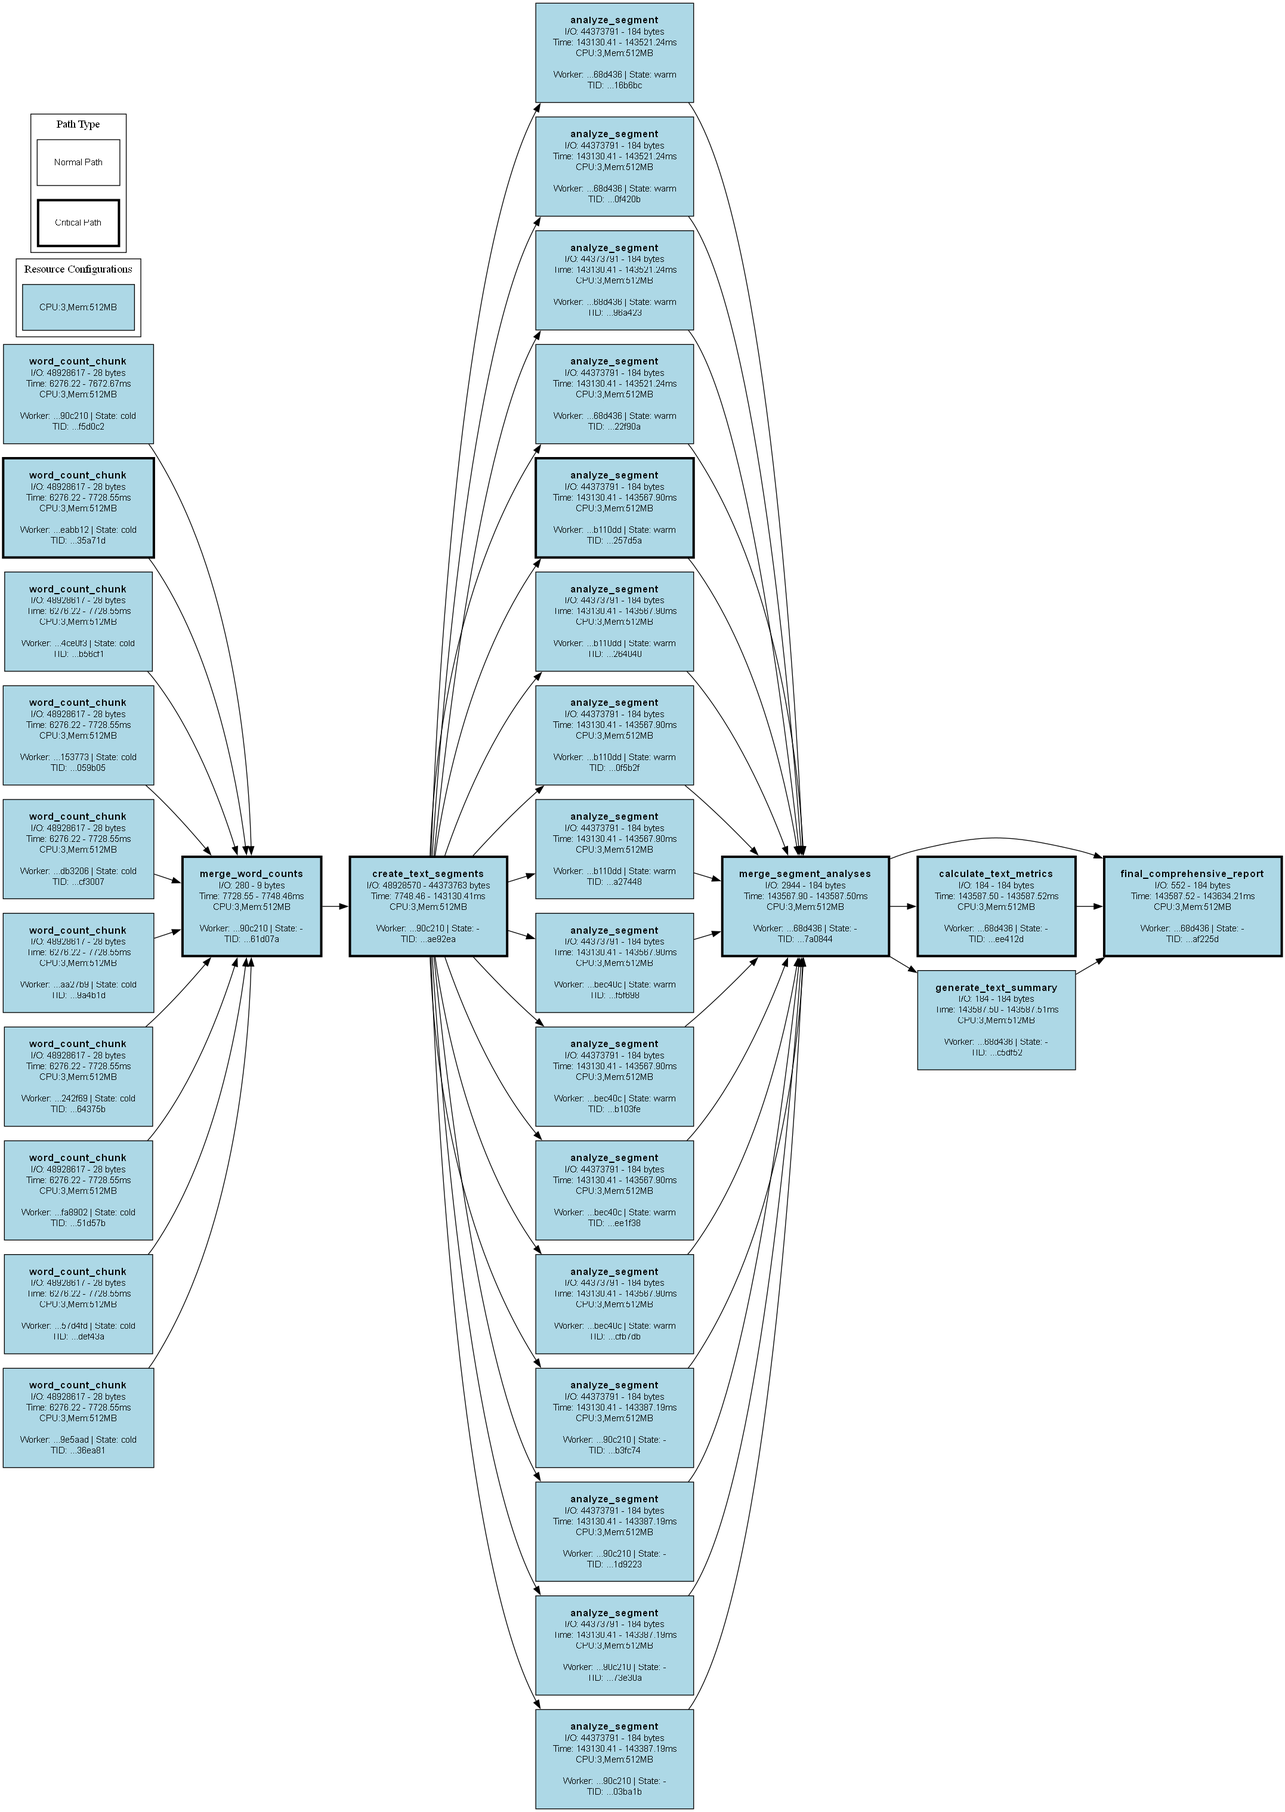
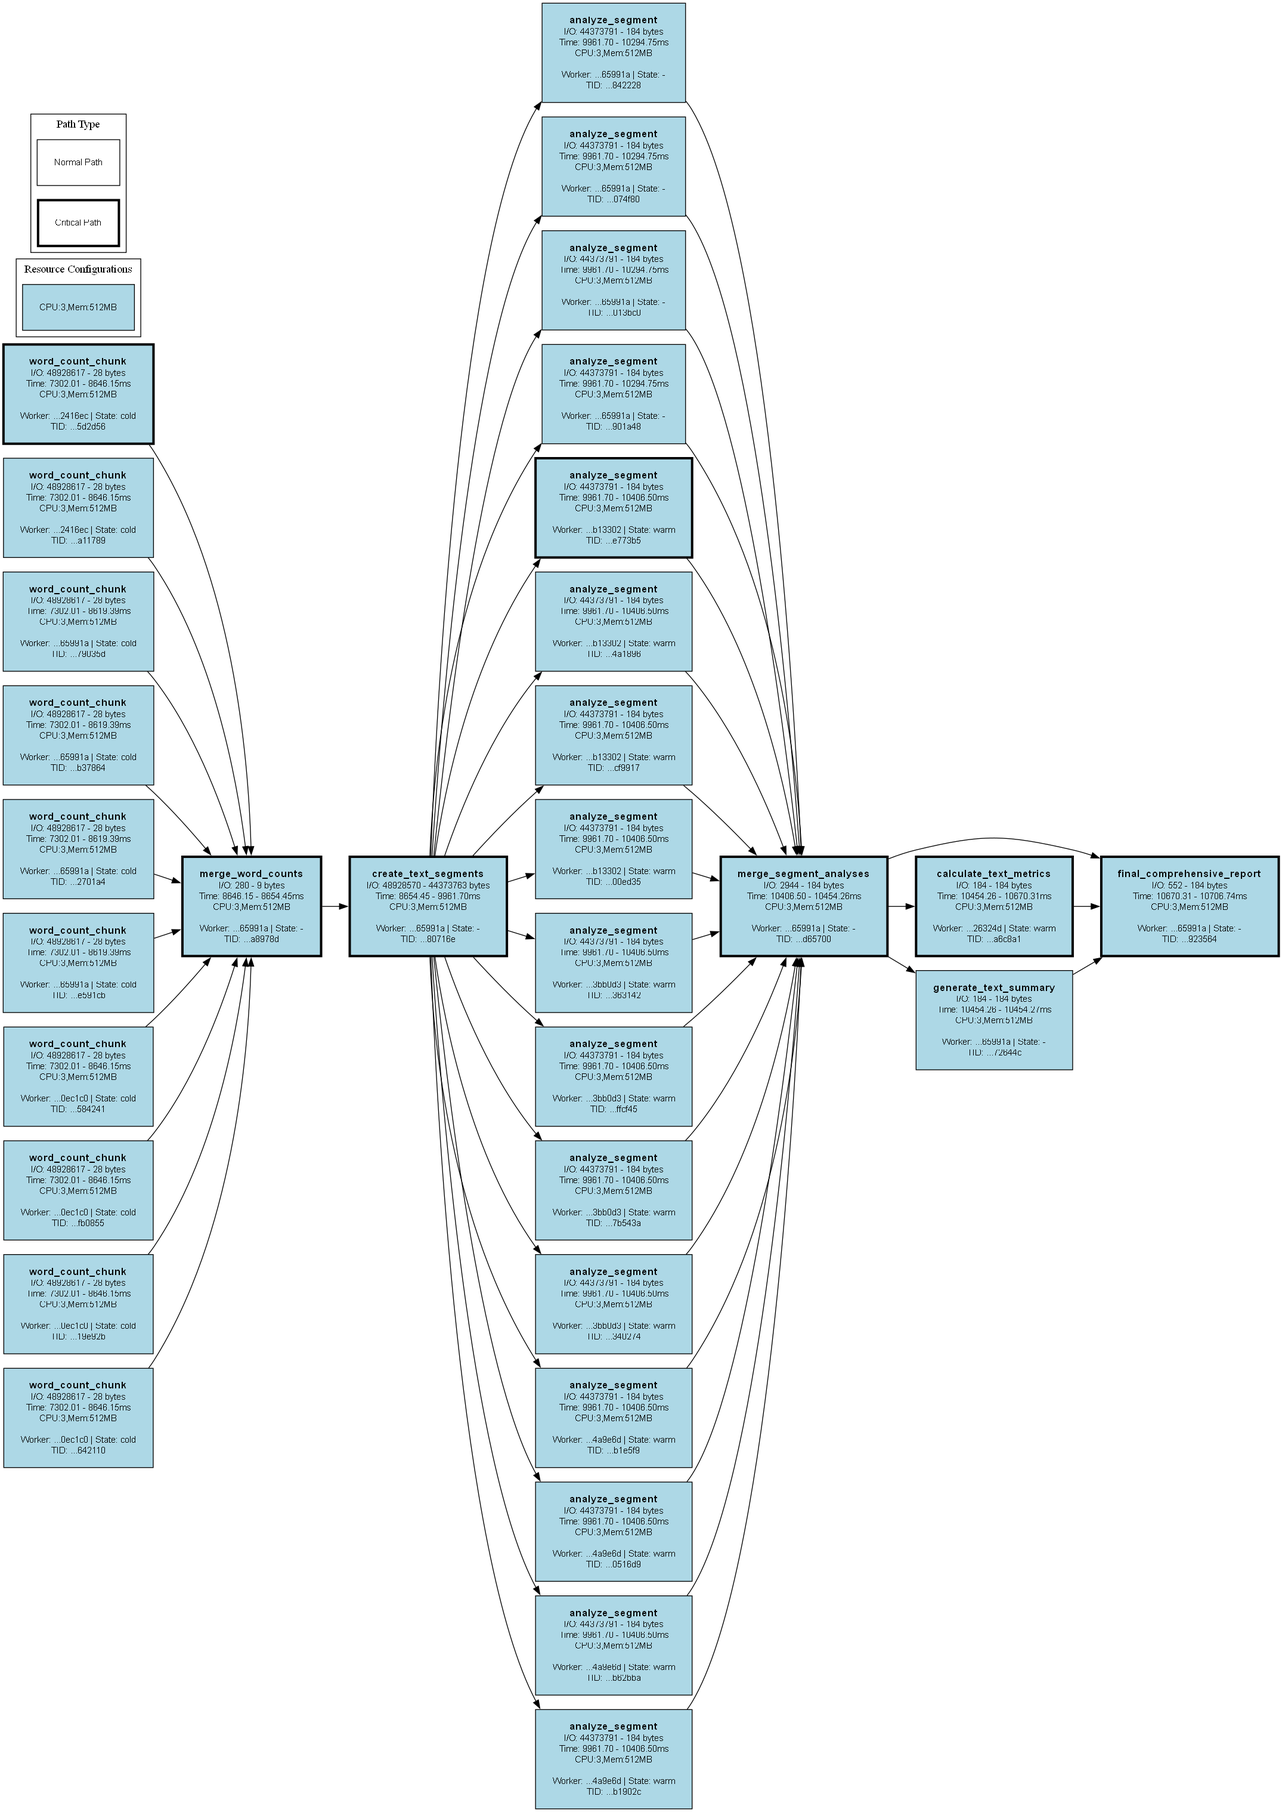
finished improving worker_id assignment algorithm

diff --git a/src/planning/abstract_dag_planner.py b/src/planning/abstract_dag_planner.py
@@ -7,7 +7,7 @@ from collections import defaultdict
 from typing import Type
 import uuid
 import statistics
-from collections import deque
+from typing import Callable
 
 from src import dag_task_node
 from src.dag_task_node import DAGTaskNode
@@ -106,144 +106,150 @@ class AbstractDAGPlanner(WorkerExecutionLogic):
         def __post_init__(self):
             self.total_time_waiting_for_worker_startup_ms = sum(map(lambda node_info: node_info.tp_worker_startup_time_ms, self.nodes_info.values()))
 
-    # def _basic_worker_id_assignment(self, dag, resource_configuration: TaskWorkerResourceConfiguration, topo_sorted_nodes: list[DAGTaskNode]):
-    #     """
-    #     Assigns same resources {resource_configuration} to all nodes and assigns worker ids using a simple algorithm that tries to cluster up to {MAX_FAN_OUT_SIZE_W_SAME_WORKER} nodes on the same worker on fan-outs
-    #     """
-
-    #     for node in topo_sorted_nodes:
-    #         resource_config = resource_configuration.clone()
-    #         node.worker_config = resource_config
-    #         if len(node.upstream_nodes) == 0:
-    #             resource_config.worker_id = uuid.uuid4().hex
-    #         else:
-    #             # Count worker usage among downstream nodes of upstream nodes
-    #             same_level_worker_usage = {}
-    #             for upstream_node in node.upstream_nodes:
-    #                 worker_id = upstream_node.worker_config.worker_id
-    #                 if not worker_id: continue
-    #                 same_level_worker_usage[worker_id] = 0
-
-    #             for upstream_node in node.upstream_nodes:
-    #                 # Get all downstream nodes of this upstream node
-    #                 for downstream_node in upstream_node.downstream_nodes:
-    #                     if downstream_node.id.get_full_id() == node.id.get_full_id(): continue
-    #                     downstream_worker_id = downstream_node.worker_config.worker_id
-    #                     if not downstream_worker_id: continue
-    #                     same_level_worker_usage[downstream_worker_id] = same_level_worker_usage.get(downstream_worker_id, 0) + 1
-
-    #             # Get the most used worker ID that doesn't exceed MAX_FAN_OUT_SIZE_W_SAME_WORKER
-    #             best_worker_id = None
-    #             best_usage = -1
-    #             for worker_id, usage in same_level_worker_usage.items():
-    #                 if usage > best_usage and usage < AbstractDAGPlanner.MAX_FAN_OUT_SIZE_W_SAME_WORKER:
-    #                     best_worker_id = worker_id
-    #                     best_usage = usage
-                
-    #             # If no suitable worker found, create a new one
-    #             resource_config.worker_id = best_worker_id if best_worker_id else uuid.uuid4().hex
-
-    def _basic_worker_id_assignment(self, dag, predictions_provider: PredictionsProvider, resource_configuration: TaskWorkerResourceConfiguration, topo_sorted_nodes: list[DAGTaskNode]):
+    def _basic_worker_id_assignment(
+        self,
+        predictions_provider: PredictionsProvider,
+        resource_configuration: TaskWorkerResourceConfiguration,
+        topo_sorted_nodes: list[DAGTaskNode]
+    ):
         """
         Assign worker IDs using a BFS traversal with prediction-aware heuristics:
+        - Root nodes: cluster short, big-output tasks together, isolate long tasks
         - 1→1 : reuse upstream worker
         - 1→N : cluster short, big-output tasks on origin worker, isolate long tasks
         - N→1 : assign to worker of upstreams with largest total output
         """
-        from src.dag.dag import GenericDAG
-        _dag: GenericDAG = dag
-
-        MAX_CLUSTER = AbstractDAGPlanner.MAX_FAN_OUT_SIZE_W_SAME_WORKER
 
         nodes_info = self._calculate_workflow_timings(topo_sorted_nodes, predictions_provider, self.config.sla)
 
-        for node in topo_sorted_nodes:
-            # --- Determine worker assignment ---
-            resource_config = resource_configuration.clone()
+        assigned_nodes = set()
 
-            #! TODO: change this to be similar to fan-out handling
-            if len(node.upstream_nodes) == 0:
-                # Root node → always new worker
+        # -----------------------------------------------------------
+        # --- Helper for fan-out assignment with grouping logic
+        # -----------------------------------------------------------
+        def _assign_fanout_group(
+            upstream_worker_id: str | None,
+            candidates: list[DAGTaskNode]
+        ):
+            """
+            Assign worker IDs to a fan-out group of candidates according to:
+            - Short tasks (<= median exec time) grouped first (big output first).
+            - Remaining shorts + longs grouped together: 1 long + (cluster_size-1) shorts per group.
+            - Remaining shorts grouped in cluster_size groups.
+            - Remaining longs grouped in (cluster_size//2) groups.
+            """
+            if not candidates: 
+                return
+
+            exec_times: dict[str, float] = {}
+            outputs: dict[str, int] = {}
+
+            # predict exec/output
+            for c in candidates:
+                input_size = nodes_info[c.id.get_full_id()].deserialized_input_size
+                exec_times[c.id.get_full_id()] = predictions_provider.predict_execution_time(
+                    c.func_name, input_size, resource_configuration, self.config.sla
+                )
+                outputs[c.id.get_full_id()] = predictions_provider.predict_output_size(
+                    c.func_name, input_size, self.config.sla, deserialized=True
+                )
+
+            median_exec = statistics.median(exec_times.values())
+            long_tasks = [c for c in candidates if exec_times[c.id.get_full_id()] > median_exec]
+            short_tasks = [c for c in candidates if exec_times[c.id.get_full_id()] <= median_exec]
+
+            # Sort short tasks by descending output
+            short_tasks.sort(key=lambda c: outputs[c.id.get_full_id()], reverse=True)
+
+            # 1) Cluster short tasks first (big output first) on upstream worker if provided
+            if upstream_worker_id and short_tasks:
+                n_cluster = min(AbstractDAGPlanner.MAX_FAN_OUT_SIZE_W_SAME_WORKER, len(short_tasks))
+                for c in short_tasks[:n_cluster]:
+                    rc = resource_configuration.clone()
+                    rc.worker_id = upstream_worker_id
+                    c.worker_config = rc
+                    assigned_nodes.add(c.id.get_full_id())
+                short_tasks = short_tasks[n_cluster:]
+
+            # 2) Pair remaining longs with remaining shorts (1 long per group)
+            while long_tasks and short_tasks:
+                long_task = long_tasks.pop(0)
+                n_cluster = min(AbstractDAGPlanner.MAX_FAN_OUT_SIZE_W_SAME_WORKER - 1, len(short_tasks))
+                group = [long_task] + short_tasks[:n_cluster]
+                short_tasks = short_tasks[n_cluster:]
                 wid = uuid.uuid4().hex
-                resource_config.worker_id = wid
-                node.worker_config = resource_config
+                for t in group:
+                    rc = resource_configuration.clone()
+                    rc.worker_id = wid
+                    t.worker_config = rc
+                    assigned_nodes.add(t.id.get_full_id())
 
-            elif len(node.upstream_nodes) == 1 and len(node.upstream_nodes[0].downstream_nodes) == 1:
-                # 1→1 → reuse upstream worker
-                origin_worker_id = node.upstream_nodes[0].worker_config.worker_id
-                resource_config.worker_id = origin_worker_id
-                node.worker_config = resource_config
+            # 3) Group remaining short tasks
+            while short_tasks:
+                group = short_tasks[:AbstractDAGPlanner.MAX_FAN_OUT_SIZE_W_SAME_WORKER]
+                short_tasks = short_tasks[AbstractDAGPlanner.MAX_FAN_OUT_SIZE_W_SAME_WORKER:]
+                wid = uuid.uuid4().hex
+                for t in group:
+                    rc = resource_configuration.clone()
+                    rc.worker_id = wid
+                    t.worker_config = rc
+                    assigned_nodes.add(t.id.get_full_id())
 
+            # 4) Group remaining long tasks (half-size groups)
+            long_cluster = max(1, AbstractDAGPlanner.MAX_FAN_OUT_SIZE_W_SAME_WORKER // 2)
+            while long_tasks:
+                group = long_tasks[:long_cluster]
+                long_tasks = long_tasks[long_cluster:]
+                wid = uuid.uuid4().hex
+                for t in group:
+                    rc = resource_configuration.clone()
+                    rc.worker_id = wid
+                    t.worker_config = rc
+                    assigned_nodes.add(t.id.get_full_id())
+
+        # Process nodes in topological order
+        for node in topo_sorted_nodes:
+            if node.id.get_full_id() in assigned_nodes: continue
+
+            # Determine this node's assignment based on its upstream pattern
+            if not node.upstream_nodes:
+                # ROOT NODE: Handle as part of root fanout group
+                remaining_roots = [n for n in topo_sorted_nodes 
+                                 if not n.upstream_nodes and n.id.get_full_id() not in assigned_nodes]
+                _assign_fanout_group(upstream_worker_id=None, candidates=remaining_roots)
+            # 1→1 or 1→N
             elif len(node.upstream_nodes) == 1:
-                # -------- 1→N fan-out --------
-                origin = node.upstream_nodes[0]
-                origin_worker_id = origin.worker_config.worker_id
-                siblings = [d for d in origin.downstream_nodes]
-
-                # Only process fan-out once, when we reach the first sibling
-                # Check if any sibling already assigned; if yes, reuse existing assignment.
-                # ??
-                if any(s.worker_config.worker_id for s in siblings):
-                    # reuse what earlier sibling decisions already set
-                    resource_config.worker_id = node.worker_config.worker_id or siblings[0].worker_config.worker_id
-                    node.worker_config = resource_config
+                upstream = node.upstream_nodes[0]
+                
+                # Check if this is a 1→1 or 1→N situation
+                if len(upstream.downstream_nodes) == 1:
+                    # 1→1: reuse upstream worker
+                    rc = resource_configuration.clone()
+                    rc.worker_id = upstream.worker_config.worker_id
+                    node.worker_config = rc
+                    assigned_nodes.add(node.id.get_full_id())
                 else:
-                    # Predict exec times and outputs for all siblings
-                    input_size = nodes_info[node.id.get_full_id()].deserialized_input_size
-                    exec_times = { s.id.get_full_id(): predictions_provider.predict_execution_time(s.func_name, input_size, resource_config, self.config.sla) for s in siblings }
-                    outputs = { s.id.get_full_id(): predictions_provider.predict_output_size(s.func_name, input_size, self.config.sla, deserialized=True)  for s in siblings }
-
-                    # Compute median execution time
-                    median_exec = statistics.median(exec_times.values())
-
-                    # Separate long vs short tasks
-                    long_tasks  = [s for s in siblings if exec_times[s.id.get_full_id()] > median_exec]
-                    short_tasks = [s for s in siblings if exec_times[s.id.get_full_id()] <= median_exec]
-
-                    # Sort short tasks: big output first
-                    short_tasks.sort(key=lambda s: outputs[s.id.get_full_id()], reverse=True)
-
-                    # Assign short tasks to origin worker (up to MAX_CLUSTER)
-                    cluster_size = min(MAX_CLUSTER, len(short_tasks))
-                    for s in short_tasks[:cluster_size]:
-                        rc = resource_configuration.clone()
-                        rc.worker_id = origin_worker_id
-                        s.worker_config = rc
-
-                    # Remaining short tasks → each gets a new worker
-                    for s in short_tasks[cluster_size:]:
-                        rc = resource_configuration.clone()
-                        rc.worker_id = uuid.uuid4().hex
-                        s.worker_config = rc
-
-                    # Long tasks → each gets its own new worker
-                    for s in long_tasks:
-                        rc = resource_configuration.clone()
-                        rc.worker_id = uuid.uuid4().hex
-                        s.worker_config = rc
-
-                    # Nothing more to do here for the current node,
-                    # because all siblings (including `node`) are now assigned.
-                    # We'll continue BFS to their children below.
-                    # So just continue to enqueue downstream later
-                    # (skip node.worker_config assignment because already set).
-                    # Mark as already processed to avoid double-assignment.
-                    resource_config = node.worker_config  # use what we just set
-
+                    # 1→N: Handle my entire fanout group
+                    remaining_fanout = [n for n in upstream.downstream_nodes if n.id.get_full_id() not in assigned_nodes]
+                    _assign_fanout_group(upstream_worker_id=upstream.worker_config.worker_id, candidates=remaining_fanout)
+            # N→1: assign to worker of upstream with largest total output
             else:
-                # -------- N→1 fan-in --------
-                upstreams = node.upstream_nodes
-                # Compute predicted output size per upstream worker
-                worker_output = {}
-                for up in upstreams:
+                rc = resource_configuration.clone()
+                worker_output: dict[str, int] = {}
+                
+                for up in node.upstream_nodes:
                     wid = up.worker_config.worker_id
-                    out_size = predictions_provider.predict_output_size(up)
-                    worker_output[wid] = worker_output.get(wid, 0.0) + out_size
-
-                # Pick worker with largest total output
-                best_worker = max(worker_output.items(), key=lambda kv: kv[1])[0]
-                resource_config.worker_id = best_worker
-                node.worker_config = resource_config
+                    assert wid is not None, f"Upstream node {up.id.get_full_id()} must have worker_id assigned"
+                    
+                    inp_size = nodes_info[up.id.get_full_id()].deserialized_input_size
+                    out_size = predictions_provider.predict_output_size(
+                        up.func_name, inp_size, self.config.sla, deserialized=True
+                    )
+                    worker_output[wid] = worker_output.get(wid, 0) + out_size
+                
+                rc.worker_id = max(worker_output.items(), key=lambda kv: kv[1])[0]
+                node.worker_config = rc
+                assigned_nodes.add(node.id.get_full_id())
 
     def plan(self, dag, predictions_provider: PredictionsProvider) -> PlanOutput | None:
         """
@@ -262,7 +268,7 @@ class AbstractDAGPlanner(WorkerExecutionLogic):
             self.validate_plan(_dag.root_nodes)
             return None # no plan was made
         else:
-            # self._store_plan_image(_dag, plan_result.nodes_info, plan_result.critical_path_node_ids)
+            self._store_plan_image(_dag, plan_result.nodes_info, plan_result.critical_path_node_ids)
             # self._store_plan_as_json(_dag, plan_result.nodes_info)
             self.validate_plan(_dag.root_nodes)
         # exit() # !!! FOR QUICK TESTING ONLY. REMOVE LATER !!

diff --git a/src/planning/predictions/predictions_provider.py b/src/planning/predictions/predictions_provider.py
@@ -195,10 +195,11 @@ class PredictionsProvider:
                 speed_bytes_per_ms = np.percentile(matching_samples, sla.value)
             
             if speed_bytes_per_ms <= 0:
-                raise ValueError(f"No data available for {type}")
+                raise ValueError(f"No data available for {type} or invalid speed data")
             
-            # Apply non-linear scaling directly
-            res = (data_size_bytes / speed_bytes_per_ms) ** scaling_exponent
+            # Apply non-linear scaling with protection against complex numbers
+            base_time = data_size_bytes / speed_bytes_per_ms
+            res = abs(base_time) ** scaling_exponent
         else:
             baseline_normalized_samples = [
                 (speed * (BASELINE_MEMORY_MB / memory_mb) ** 0.5, total_bytes)
@@ -212,14 +213,16 @@ class PredictionsProvider:
                 baseline_speed_bytes_per_ms = np.percentile(baseline_normalized_samples, sla.value)
             
             if baseline_speed_bytes_per_ms <= 0:
-                raise ValueError(f"No data available for {type}")
+                raise ValueError(f"No data available for {type} or invalid baseline speed data")
             
-            # Scale from baseline to target and apply non-linear scaling
+            # Scale from baseline to target and apply non-linear scaling with protection
             actual_speed = baseline_speed_bytes_per_ms * (resource_config.memory_mb / BASELINE_MEMORY_MB) ** 0.5
-            res = (data_size_bytes / actual_speed) ** scaling_exponent
+            base_time = data_size_bytes / actual_speed
+            res = abs(base_time) ** scaling_exponent
 
-        self._cached_prediction_data_transfer_times[prediction_key] = float(res)
-        return float(res)
+        _res = float(res)
+        self._cached_prediction_data_transfer_times[prediction_key] = _res
+        return _res
 
     def predict_worker_startup_time(self, resource_config: TaskWorkerResourceConfiguration, state: Literal['cold', 'warm'], sla: SLA, allow_cached: bool = True) -> float:
         """Predict worker startup time given resource configuration and state."""

diff --git a/src/planning/non_uniform_planner.py b/src/planning/non_uniform_planner.py
@@ -73,7 +73,7 @@ class NonUniformPlanner(AbstractDAGPlanner):
         
         # Step 1: Assign worker ids and best resources to all nodes
         # logger.info("=== Step 1: Initial assignment with best resources ===")
-        self._basic_worker_id_assignment(dag, best_resource_config, topo_sorted_nodes)
+        self._basic_worker_id_assignment(predictions_provider, best_resource_config, topo_sorted_nodes)
 
         # Calculate initial critical path with best resources
         nodes_info = self._calculate_workflow_timings(topo_sorted_nodes, predictions_provider, self.config.sla)

diff --git a/src/planning/uniform_planner.py b/src/planning/uniform_planner.py
@@ -50,7 +50,7 @@ class UniformPlanner(AbstractDAGPlanner):
         
         # Step 1: Assign uniform resources to all nodes
         # logger.info("=== Step 1: Initial assignment with best resources ===")
-        self._basic_worker_id_assignment(dag, predictions_provider, worker_resources, topo_sorted_nodes)
+        self._basic_worker_id_assignment(predictions_provider, worker_resources, topo_sorted_nodes)
 
         nodes_info = self._calculate_workflow_timings(topo_sorted_nodes, predictions_provider, self.config.sla)
 

diff --git a/_examples/original/_run_experiments.py b/_examples/original/_run_experiments.py
@@ -13,7 +13,7 @@ WORKFLOWS_PATHS = [
     'montage.py',
 ]
 
-ITERATIONS_PER_ALGORITHM = 3
+ITERATIONS_PER_ALGORITHM = 2
 ALGORITHMS = ['wukong', 'simple', 'uniform', 'non-uniform']
 SLAS = ['75']
 # SLAS = ['50', '75', '90', '95', '99']

diff --git a/TODO.md b/TODO.md
@@ -1,5 +1,3 @@
-- improve `_basic_worker_id_assignment()`: use predictions to better CLUSTER tasks on fan-outs
-
 - re-check planners description function
 
 - Change one workflow to have diff types of tasks on a fan-out that fans in after
